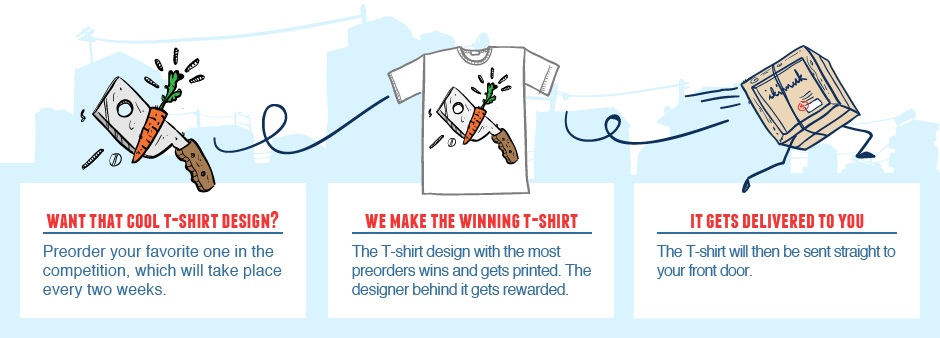
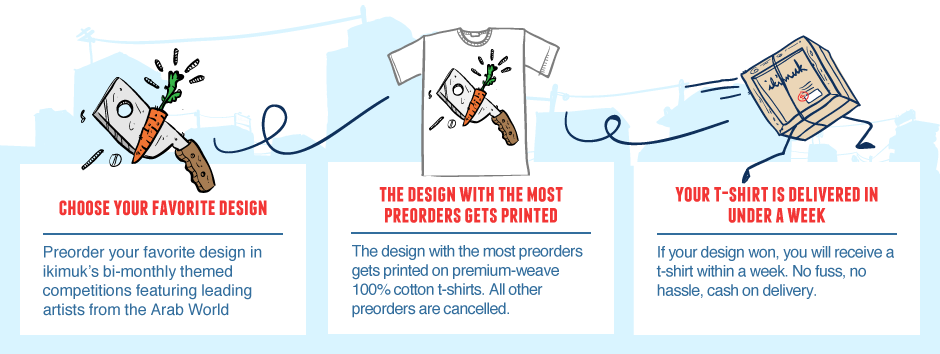
copyright fixes + new steps

diff --git a/preorder.php b/preorder.php
@@ -114,8 +114,8 @@ echo '<div class="container"><ul id="" class="brdc"><li class="span2"><a href="i
 <label class="description" for="element_2"><strong>Address </strong></label>
 <p id="address_g" class=" hidden">Do you live in an empty space box? If not, you gotta fill this up!</p>
 <input id="address" name="address" class="span6" type="text" maxlength="255" value=""/> <br/><br/>
-<input id="size" name="size" type="hidden" value="<?echo $_SESSION["size"]; //unset($_SESSION["size"]);?>" />
-<input id="design_id" name="design_id" type="hidden" value="<?echo $design_id;?>" />
+<input id="size" name="size" type="hidden" value="<?php echo $_SESSION["size"];?>" />
+<input id="design_id" name="design_id" type="hidden" value="<?php echo $design_id;?>" />
 <?php if (!isset($_SESSION['validated_mobile'])) {?>
 <div class="">
 <label  class="tlarge"><strong>Verification</strong></label>
@@ -146,7 +146,6 @@ echo '<div class="container"><ul id="" class="brdc"><li class="span2"><a href="i
     <input id="newsletter" name="newsletter" class="" type="checkbox" value="1" /> 
     Keep me in the loop, sign me up for your newsletter 
 </label>
-<input type="hidden" name="size" value="" id="size"/>
 <br><a id="preorderSubmit" class="offset1 span3 preorderButton" >Preorder</a><br><br>
 </form>
 </div></div></div>
@@ -163,7 +162,7 @@ echo '<div class="container"><ul id="" class="brdc"><li class="span2"><a href="i
 
         if($artist)
         {
-        echo '<div class="designT">'.$product->title.' <b class ="tblack tnormal"> by </b><br><b class="tlblue tnormal">'.$artist->name.'</b></div>';
+        echo '<h1 class="designT">'.$product->title.' <b class ="tblack tnormal"> by </b><br><b class="tlblue tnormal">'.$artist->name.'</b></h1>';
         }
         echo '<p>Size ('.$_SESSION["size"].')</p>';
         echo '<div class="lineb"></div>';

diff --git a/block/footer.php b/block/footer.php
@@ -14,8 +14,6 @@ FB.init({appId: '<?php echo $settings->app_id ?>',channelUrl: 'channel.php', sta
      var js, id = 'facebook-jssdk', ref = d.getElementsByTagName('script')[0];  if (d.getElementById(id)) {return;}
      js = d.createElement('script'); js.id = id; js.async = true;  js.src = "//connect.facebook.net/en_US/all.js";
      ref.parentNode.insertBefore(js, ref); }(document));
-
-//!function(d,s,id){var js,fjs=d.getElementsByTagName(s)[0];if(!d.getElementById(id)){js=d.createElement(s);js.id=id;js.src="https://platform.twitter.com/widgets.js";fjs.parentNode.insertBefore(js,fjs);}}(document,"script","twitter-wjs");
  !function(d,s,id){var js,fjs=d.getElementsByTagName(s)[0];if(!d.getElementById(id)){js=d.createElement(s);js.id=id;js.src="//platform.twitter.com/widgets.js";fjs.parentNode.insertBefore(js,fjs);}}(document,"script","twitter-wjs");
 });
 </script>
@@ -52,8 +50,8 @@ FB.init({appId: '<?php echo $settings->app_id ?>',channelUrl: 'channel.php', sta
     <button class="btn" data-dismiss="modal" aria-hidden="true">Close</button>
   </div>
 </div>
-<script type="text/javascript" src="//assets.pinterest.com/js/pinit.js"></script>
-<script type="text/javascript">
+<script type="text/javascript" src="//assets.pinterest.com/js/pinit.js" defer></script>
+<script type="text/javascript" defer>
   var uvOptions = {};
   (function() {
     var uv = document.createElement('script'); uv.type = 'text/javascript'; uv.async = true;

diff --git a/block/listing_home.php b/block/listing_home.php
@@ -5,7 +5,7 @@
  * 1- Retrieve desings listed in the current active competition 
  * 2- for each design get the pictures (primary and rollover)
  */
-$pagetitle = "Awesome t-shirts designed by you!";
+$pagetitle = "ikimuk together we create!";
 require_once "class/class.product.php";
 require_once "class/class.image.php";
 require_once 'class/settings.php';
@@ -16,13 +16,6 @@ $settings = new settings();
 include "block/header.php";
 include "block/top_area.php";
 unset($_SESSION["size"]);
-/*echo '<div class= "container openingContainer center"><div class="span8">';
-echo '<h2 class="tlblue">YOUR PREORDER MAKES THE T-SHIRTS</h2>';
-echo 'Your design is ready. Now all you have to do is pick a design challenge 
-    to submit to. The Threadless challenge is our big, ongoing, challenge. All 
-    the rest have themes, timelines, and different stuff up for grabs.</div>';
-echo '<div class="triangles"></div>';
-echo '</div><div class="clear"></div>';*/
 echo '<div class="container compHeader center"><div class="row"><br><img  class="span12" src="img/header_steps_ikimuk.png" alt="steps header ikimuk"/></div></div>';
 echo '<div class="container center">';
 echo '<div class="container compHeader center"><div class="row"><img  class="span12" src="img/header_comp_ikimuk.png" alt="competition header ikimuk"/></div></div>';

diff --git a/block/header.php b/block/header.php
@@ -42,9 +42,9 @@ ob_implicit_flush(0);
 <meta charset="utf-8">
 <meta http-equiv="X-UA-Compatible" content="IE-edge,chrome-1">
 <link rel="shortcut icon" href="img/favicon.ico">
-<title><? echo $pagetitle; ?></title>
+<title><?php echo $pagetitle; ?></title>
 <meta name="title" content="Ikimuk">
-<meta name="description" content="Browse our collection of amazing graphic t-shirt designs.  The best tees on the planet." />
+<meta name="description" content="Preorder your favorite T-shirt designs from leading artists in the Arab World." />
 <meta name="keywords" content="browse, catalog, collection, best, amazing, variety, guys, girls, men&#039;s, women&#039;s, t-shirts, tee shirts, tshirts, clothing, design, art, arab, gulf, lebanon, خليج ,عرب, ملابس , موضة , شباب" />
 <meta property="og:site_name" content="Ikimuk" />
 <meta property="og:description" content="Cool T-shirt Design">

diff --git a/block/design_view.php b/block/design_view.php
@@ -87,7 +87,7 @@ else
      echo '<div class="tlblue commentheader noindent hidden">DROP YOUR COMMENTS<div class="lineb"></div></div><br>';
      echo '<div class="fb-comments" data-href="'.$settings->site_url_vars.'" data-num-posts="2" data-width="620"></div></div>';
      echo '<div class="span4">';
-     echo '<div class="designT">'.$product->title.' <b class ="tblack tnormal"> by </b><br><b class="tlblue tnormal">'.$artist->name.'</b></div>';
+     echo '<h1 class="designT">'.$product->title.' <b class ="tblack tnormal"> by </b><br><b class="tlblue tnormal">'.$artist->name.'</b></h1>';
      echo '<div class="lineb"></div><div class="clear"></div>'; 
      echo '<div class="countText tlblue"><b class="circle span1 centert twhite">'.$product->preorders.' </b> <b>PREORDERED THIS DESIGN</b></div>';
      echo '<div class="price">PRICE: '.$product->price.'.00$</div>';

diff --git a/block/top_area.php b/block/top_area.php
@@ -18,7 +18,7 @@ header('Location: '.$_SERVER['PHP_SELF']);
 <body>
 <div class="log">
 <div class="container">
-    <div class="offset4 span4">Sorry we only deliver in Lebanon for now</div>
+    <div class="offset4 span4">This awesomeness is only in Lebanon for now!</div>
 <?php
 if(!isset($_SESSION['logged_in'])|| !$_SESSION['logged_in'])
 {

diff --git a/info.php b/info.php
@@ -1,0 +1,1 @@
+<?php phpinfo(); ?>
